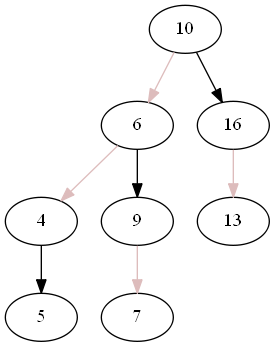
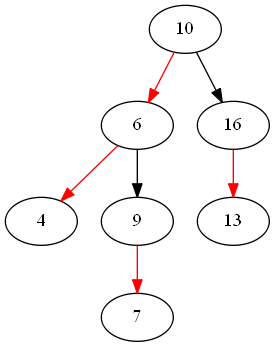
AVL二叉平衡搜索树

diff --git a/AVL/src/AVLTreeNode.java b/AVL/src/AVLTreeNode.java
@@ -4,6 +4,7 @@ import java.io.IOException;
 import java.io.Writer;
 
 
+
 public class AVLTreeNode {
 	private int data;
 	private int height;
@@ -39,18 +40,18 @@ public class AVLTreeNode {
 	}
 	
 	/**
-	 * 计算root为根结点的树的高度
+	 * 计算root为根结点的树的高度，一个结点高度为0
 	 * @param root
 	 * @return
 	 */
 	private static int Height(AVLTreeNode root) {
 		if(root==null) {
-			return 0;
+			return -1;
 		}
 		else {
-			int newH = Math.max(Height(root.getLeft()), Height(root.getRight()))+1;
+//			int newH = Math.max(Height(root.getLeft()), Height(root.getRight()))+1;
 //			root.setHeight(newH);	//在对相应的结点高度变化时，直接在变化的位置使用setHeight
-			return newH;
+			return root.getHeight();
 		}
 	}
 	
@@ -86,7 +87,7 @@ public class AVLTreeNode {
 		}
 		StringBuffer stringBuffer = new StringBuffer();
 		if(root.getLeft()!=null) {
-			stringBuffer.append(root.getData() + "->" + root.getLeft().getData() + "[color=\"#DDBCBC\"]\n");
+			stringBuffer.append(root.getData() + "->" + root.getLeft().getData() + "[color=red]\n");
 			stringBuffer.append(traverseTree(root.getLeft()));
 		}
 		if(root.getRight()!=null) {
@@ -126,6 +127,64 @@ public class AVLTreeNode {
 		return x;
 	}
 	
+	/**
+	 * LR旋转
+	 * @param z
+	 * @return
+	 */
+	private static AVLTreeNode doubleRotatewithLeft(AVLTreeNode z) {
+		z.setLeft(singleRotateRight(z.getLeft()));
+		return singleRotateLeft(z);
+	}
+	
+	/**
+	 * RL旋转
+	 * @param z
+	 * @return
+	 */
+	private static AVLTreeNode doubleRotatewithRight(AVLTreeNode z) {
+		z.setRight(singleRotateLeft(z.getRight()));
+		return singleRotateRight(z);
+	}
+	
+	/**
+	 * 在根结点为root的树中插入值data
+	 * @param root
+	 * @param data
+	 * @return
+	 */
+	private static AVLTreeNode insert(AVLTreeNode root,int data) {
+		if(root==null) {
+			root = new AVLTreeNode(data);
+			root.setHeight(0);	// 假设只有一个结点时，树高为0
+			root.setLeft(null);
+			root.setRight(null);
+		}
+		else if(data<root.getData()) {
+			root.setLeft(insert(root.getLeft(),data));
+			if(Height(root.getLeft())-Height(root.getRight()) == 2) {
+				 if(data<root.getLeft().getData()) {
+					 root = singleRotateLeft(root);
+				 }
+				 else {
+					 root = doubleRotatewithLeft(root);
+				 }
+			}
+		}
+		else if(data>root.getData()) {
+			root.setRight(insert(root.getRight(),data));
+			if(Height(root.getRight())-Height(root.getLeft()) == 2) {
+				if(data>root.getRight().getData()) {
+					root = singleRotateRight(root);
+				}
+				else {
+					root = doubleRotatewithRight(root);
+				}
+			}
+		}
+		root.setHeight(Math.max(Height(root.getLeft()), Height(root.getRight()))+1);
+		return root;
+	}
 	
 	/**
 	 * main函数
@@ -133,17 +192,24 @@ public class AVLTreeNode {
 	 * @throws IOException 
 	 */
 	public static void main(String[] args) throws IOException {
-		AVLTreeNode n6 = new AVLTreeNode(6);
-		AVLTreeNode n5 = new AVLTreeNode(5);
-		AVLTreeNode n3 = new AVLTreeNode(3);
-		AVLTreeNode n8 = new AVLTreeNode(8);
-		AVLTreeNode n7 = new AVLTreeNode(7);
-		AVLTreeNode n9 = new AVLTreeNode(9);
-		n6.setLeft(n5);
-		n5.setLeft(n3);
-		n6.setRight(n8);
-		n8.setLeft(n7);
-		n8.setRight(n9);
-		printTree(n6, "png1");
+//		AVLTreeNode n6 = new AVLTreeNode(6);
+//		AVLTreeNode n5 = new AVLTreeNode(5);
+//		AVLTreeNode n3 = new AVLTreeNode(3);
+//		AVLTreeNode n8 = new AVLTreeNode(8);
+//		AVLTreeNode n7 = new AVLTreeNode(7);
+//		AVLTreeNode n9 = new AVLTreeNode(9);
+//		n6.setLeft(n5);
+//		n5.setLeft(n3);
+//		n6.setRight(n8);
+//		n8.setLeft(n7);
+//		n8.setRight(n9);
+// 不能按照以上方式插入树，因为这样就无法更新height
+		AVLTreeNode root = insert(null,6);
+		root = insert(root,4);
+		root = insert(root,2);
+		root = insert(root,5);
+		root = insert(root,7);
+		root = insert(root,8);
+		printTree(root, "png1");
 	}
 }

diff --git a/binarySearchTree/src/binarySearchTree/BinarySearchTreeNode.java b/binarySearchTree/src/binarySearchTree/BinarySearchTreeNode.java
@@ -64,7 +64,7 @@ public class BinarySearchTreeNode {
 		}
 		StringBuffer stringBuffer = new StringBuffer();
 		if(root.getLeft()!=null) {
-			stringBuffer.append(root.getData() + "->" + root.getLeft().getData() + "[color=\"#DDBCBC\"]\n");
+			stringBuffer.append(root.getData() + "->" + root.getLeft().getData() + "[color=red]\n");
 			stringBuffer.append(traverseTree(root.getLeft()));
 		}
 		if(root.getRight()!=null) {
@@ -127,31 +127,32 @@ public class BinarySearchTreeNode {
 	 * @throws IOException 
 	 */
 	public static void main(String[] args) throws IOException {
-		BinarySearchTreeNode n10 = new BinarySearchTreeNode(10);
-		BinarySearchTreeNode n6 = new BinarySearchTreeNode(6);
-		BinarySearchTreeNode n16 = new BinarySearchTreeNode(16);
-		BinarySearchTreeNode n4 = new BinarySearchTreeNode(4);
-		BinarySearchTreeNode n9 = new BinarySearchTreeNode(9);
-		BinarySearchTreeNode n13 = new BinarySearchTreeNode(13);
-		BinarySearchTreeNode n7 = new BinarySearchTreeNode(7);
-		n10.setLeft(n6);
-		n10.setRight(n16);
-		n6.setLeft(n4);
-		n6.setRight(n9);
-		n9.setLeft(n7);
-		n16.setLeft(n13);
-		printTree(n10);
+//		BinarySearchTreeNode n10 = new BinarySearchTreeNode(10);
+//		BinarySearchTreeNode n6 = new BinarySearchTreeNode(6);
+//		BinarySearchTreeNode n16 = new BinarySearchTreeNode(16);
+//		BinarySearchTreeNode n4 = new BinarySearchTreeNode(4);
+//		BinarySearchTreeNode n9 = new BinarySearchTreeNode(9);
+//		BinarySearchTreeNode n13 = new BinarySearchTreeNode(13);
+//		BinarySearchTreeNode n7 = new BinarySearchTreeNode(7);
+//		n10.setLeft(n6);
+//		n10.setRight(n16);
+//		n6.setLeft(n4);
+//		n6.setRight(n9);
+//		n9.setLeft(n7);
+//		n16.setLeft(n13);
+		BinarySearchTreeNode root = insert(null,10);
+		root = insert(root,6);
+		root = insert(root,16);
+		root = insert(root,4);
+		root = insert(root,9);
+		root = insert(root,13);
+		root = insert(root,7);
+		
+		printTree(root);
 		Runtime runtime = Runtime.getRuntime(); 
 		String[] cmd1 = {"D:\\Graphviz2.38\\bin\\dot.exe","graph.dot","-Tpng","-o","example3.png"};
 		runtime.exec(cmd1);
 		
-//		BinarySearchTreeNode result = find(n10,9);
-//		System.out.println(result.getData() + " " + result.getLeft().getData() );
-//		
-		BinarySearchTreeNode result = insert(n10, 5);
-		System.out.println(result.getData() + " " + result.getLeft().getData() );
-		printTree(n10);
-		String[] cmd2 = {"D:\\Graphviz2.38\\bin\\dot.exe","graph.dot","-Tpng","-o","example4.png"};
-		runtime.exec(cmd2);
+
 	}
 }
